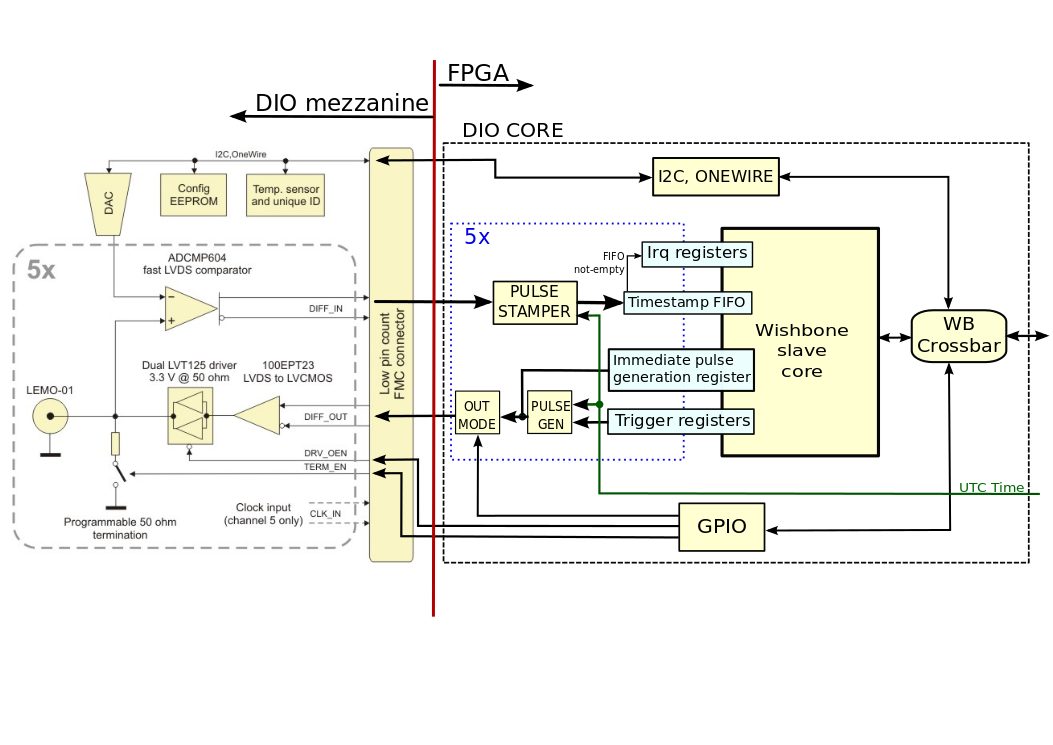
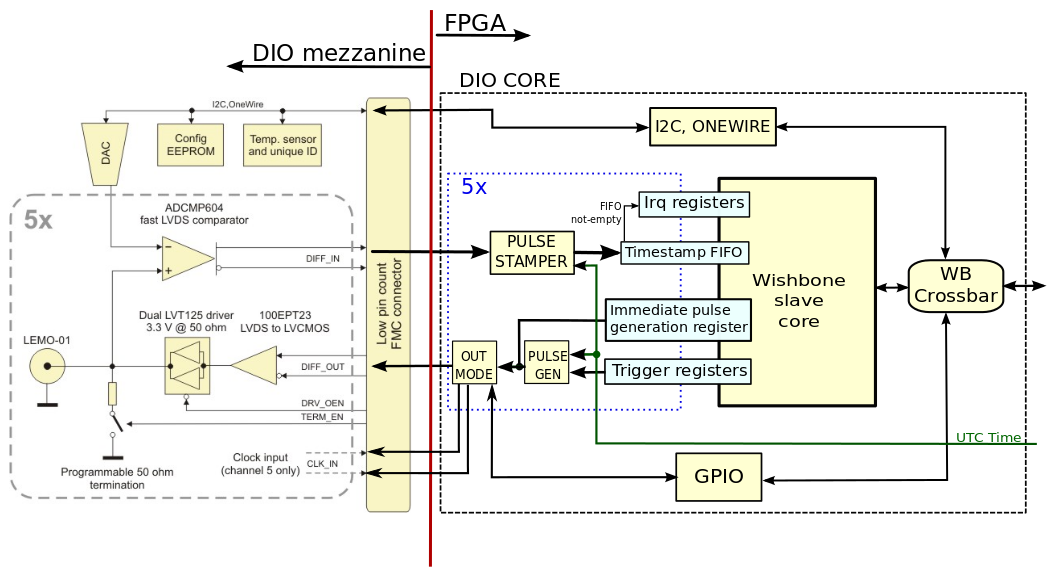
doc: update for v1.1 release
adding GM mode

Changed region(s): [[0.0, 0.0, 1.0, 0.9062], [0.061, 0.7812, 0.1829, 0.875]]

diff --git a/doc/wr-nic.md b/doc/wr-nic.md
@@ -1,5 +1,5 @@
 % White-Rabbit  NIC Gateware
-% Javier Díaz Univ. of Granada, Rafael Rodriguez Seven Solutions
+% Javier Díaz Univ. of Granada, Rafael Rodriguez & Benoit Rat Seven Solutions
 % 14 Dec. 2012
 
 Introduction
@@ -70,7 +70,7 @@ The `DIO Core` block is the HDL block that access to the fmc-dio-5chls mezzanine
 
 The different submodules description are:  
 
-* `GPIO:` It allows to enable/disable the output drivers and the termination resistors.
+* `GPIO:` Set the state (0/1) of the I/O when in GPIO out mode 
 
 * `I2C:` It allows to set the threshold of the ADCMP604 fast LVDS comparator and to access to write/read data to the EEPROM memory (24AA64). Please note that already commented, current release do not allow to access I2C signals of the FMC-DIO card from this HDL block. This is assigned to WRPC and therefore it should be handled inside its memory maps (concretely, inside WRPC `Syscon` device). This could change for future releases.
 
@@ -87,6 +87,7 @@ The different submodules description are:
 	2. FIFOs to store the timestamps of input signals
 	3. Interrupt control registers that allow to configure the interrupts  generated when there are data in the FIFOs.
 	4. Monostable register, which generates a single clock cycle-long
+	5. Update the mode of the drivers: the termination resistors and if it is connected to GPIO, DIO core or WRPC.
 
 DIO Configuration & Control
 ==========================
@@ -104,7 +105,20 @@ Note that dio channels time base work wth 8 ns accuracy for inputs time-tagging.
 
 In order to use input/output channels as previously described, the following actions are required:  
 
-* Standard GPIO output generation is selected by default. In order to use monostable output (time-programmed or immediate), each channel should be properly configured to the `dio_out_mode register`. A value of 1 indicates that channel will be used for programmable output, otherwise (0 by default), channel will use the values assigned by the GPIO logic block. 
+* The I/O mode of each channel controlled by the `dio_iomode` register:
+    * [0-1]: The two first bit correspond to which signal its connected: 0 (00) GPIO, 1 (01) DIO core, 2 (10) WRPC core, 3 Undefined
+    * [2]: Output Enable Negative (Input enable)
+    * [3]: 50 Ohm termination enable.
+    
+By default the register is set with:
+
+#. 0x0 (GPIO out without termination),
+#. 0x0 (...)
+#. 0x2 (WRPC out a.k.a direct PPS without termination)
+#. 0xC (Input with termination for PPS signal)
+#. 0xE: Clock[^clkinput] input with termination.
+
+[^clkinput]: The Clock input is similar the DIO input excepting that no interrupt will be generated to the PCIe core. It is used in GranMaster mode.
 
 * Time-programmable pulse generation: Generate a programmed input at any time at channel X (X between 0 and 4 identifies the requested channel). For this purpose you need to perform the following actions:
 	* Set the required time. This means to provide the 40 bits for the time value and the number of cycles (28 bits). This 		requires to write the registers `dio_trigX_seconds, dio_trighX_seconds` (high part of the time value) and `dio_cyc0_cyc`.
@@ -122,6 +136,7 @@ A detailed information about the memory maps and related registers names are ava
 
 Interrupt handling
 ------------------
+
 The VIC module block is in charge of handling the different interrupts and provide proper registers to inform of the source of each interruption. The main interrupt signal is communicated to the PC using the gn4124 chip and gn4124 and GPIO-8. A proper core in the FPGA uses the irq_req_p1_i signal to activate this external GPIO pin which needs to be assigned at the low-level hardware. 
 
 The base address, as shown on the memory map figure is 0x00060000. It handles the following interrupts sources:  
@@ -173,12 +188,11 @@ the wrpc-sw (`wrc.ram` file) embeded inside.
 ## Checkout the code
 git clone git://ohwr.org/white-rabbit/wr-nic.git
 cd wr-nic
-##git checkout -b wr-nic-v1.0 wr-nic-v1.0
+git checkout -b wr-nic-v1.1 wr-nic-v1.1
 
 ## Create and update the submodules
 git submodule init
 git submodule update
-patch -p0 < 0001-Comment_ECA_for_Xilinx.patch
 
 ## Go to the main directory
 cd wr-nic/syn/spec/
@@ -206,7 +220,7 @@ export CROSS_COMPILE="<your_path_to_lm32>/lm32/bin/lm32-elf-";
 #Clone the repository
 $ git clone git://ohwr.org/hdl-core-lib/wr-cores/wrpc-sw.git 
 $ cd wrpc-sw
-$ git checkout -b wr-nic-v1.0 wr-nic-v1.0 
+$ git checkout -b wr-nic-v1.1 wr-nic-v1.1 
 ~~~~~~~~~~
 
 And finally configure & compile it
@@ -261,7 +275,7 @@ There are some considerations about the gateware properties that need to be well
 
 * Timestamping granularity of inputs DIO channel is limited to 8ns so there is not any error if further accuracy is not obtained. Nevertheless, note White-Rabbit will still synchronize the system clock with subnanosecond accuracy.  
 
-* Currently virtual UART is not running but it is expected to be solved very soon. 
+* We have used Physical UART instead of running Virtual UART. 
 
 
 Further information will be provided in future releases.   
